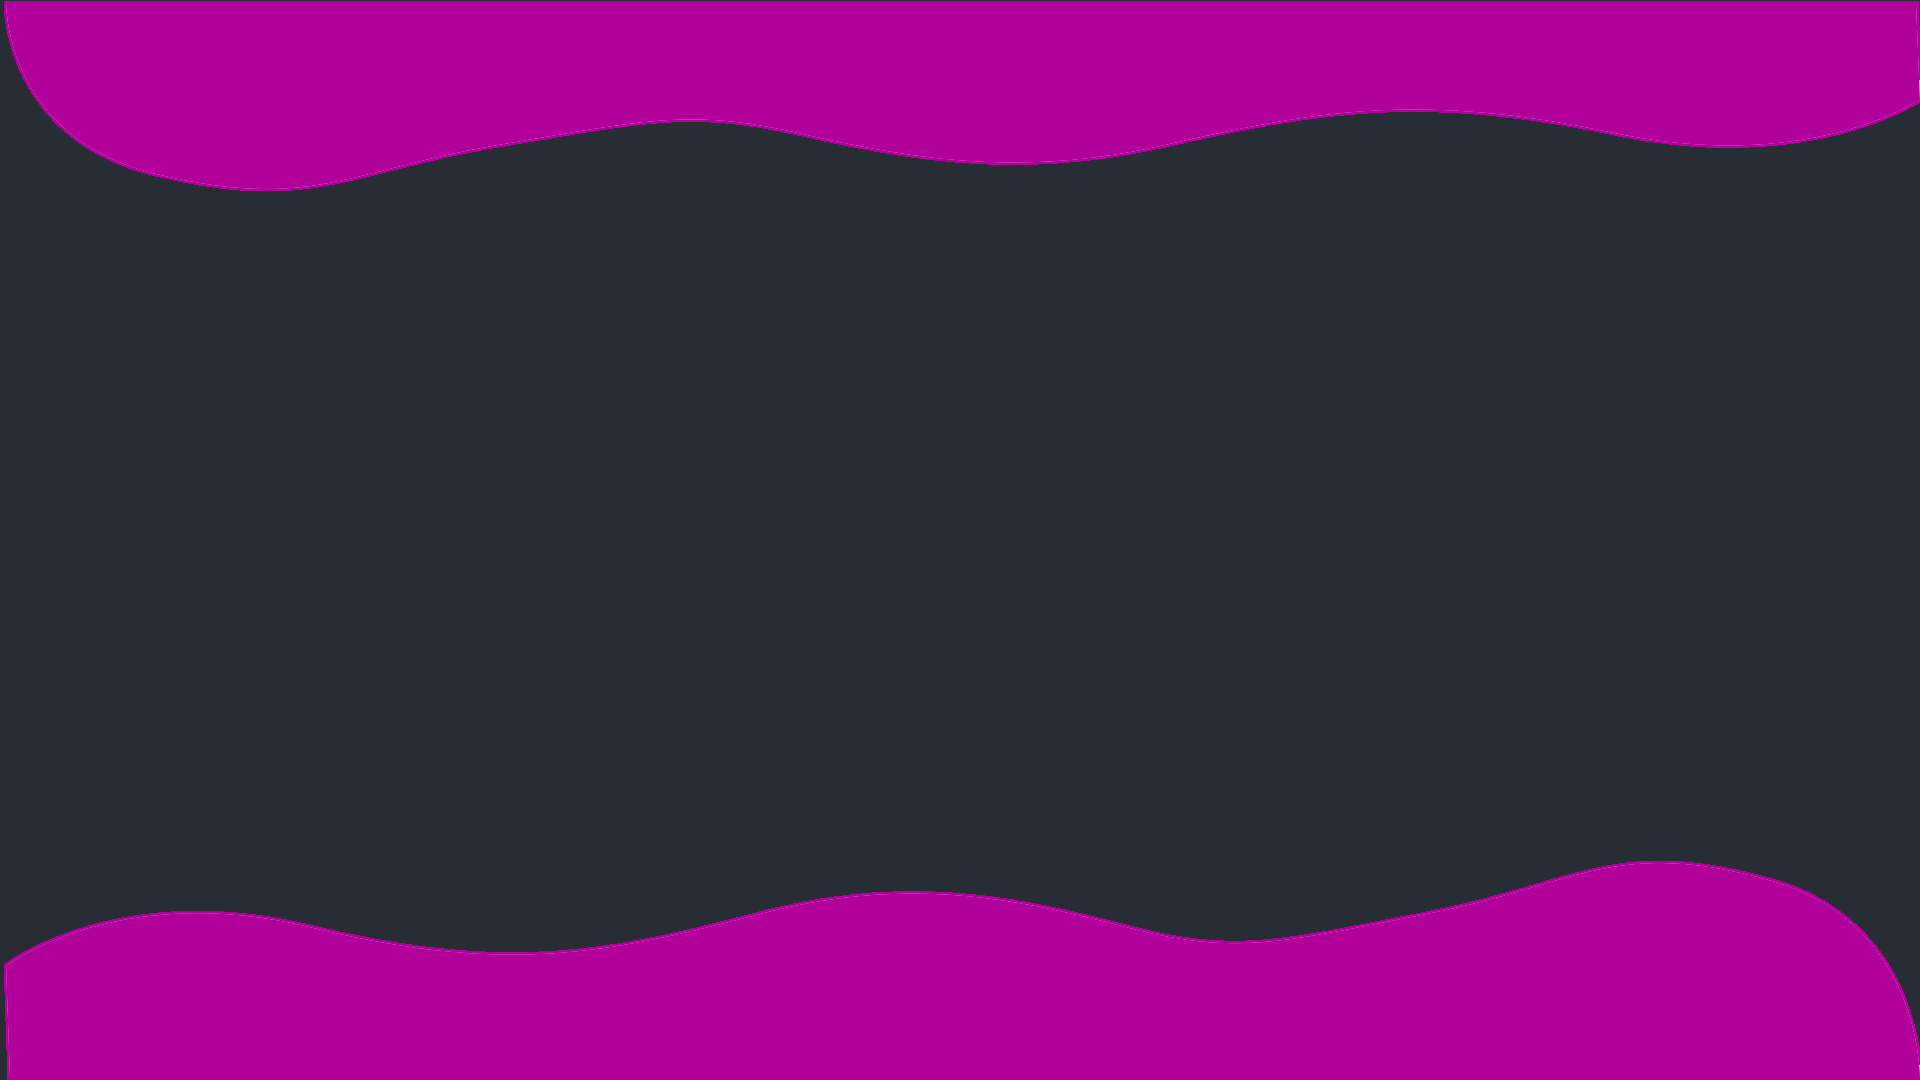
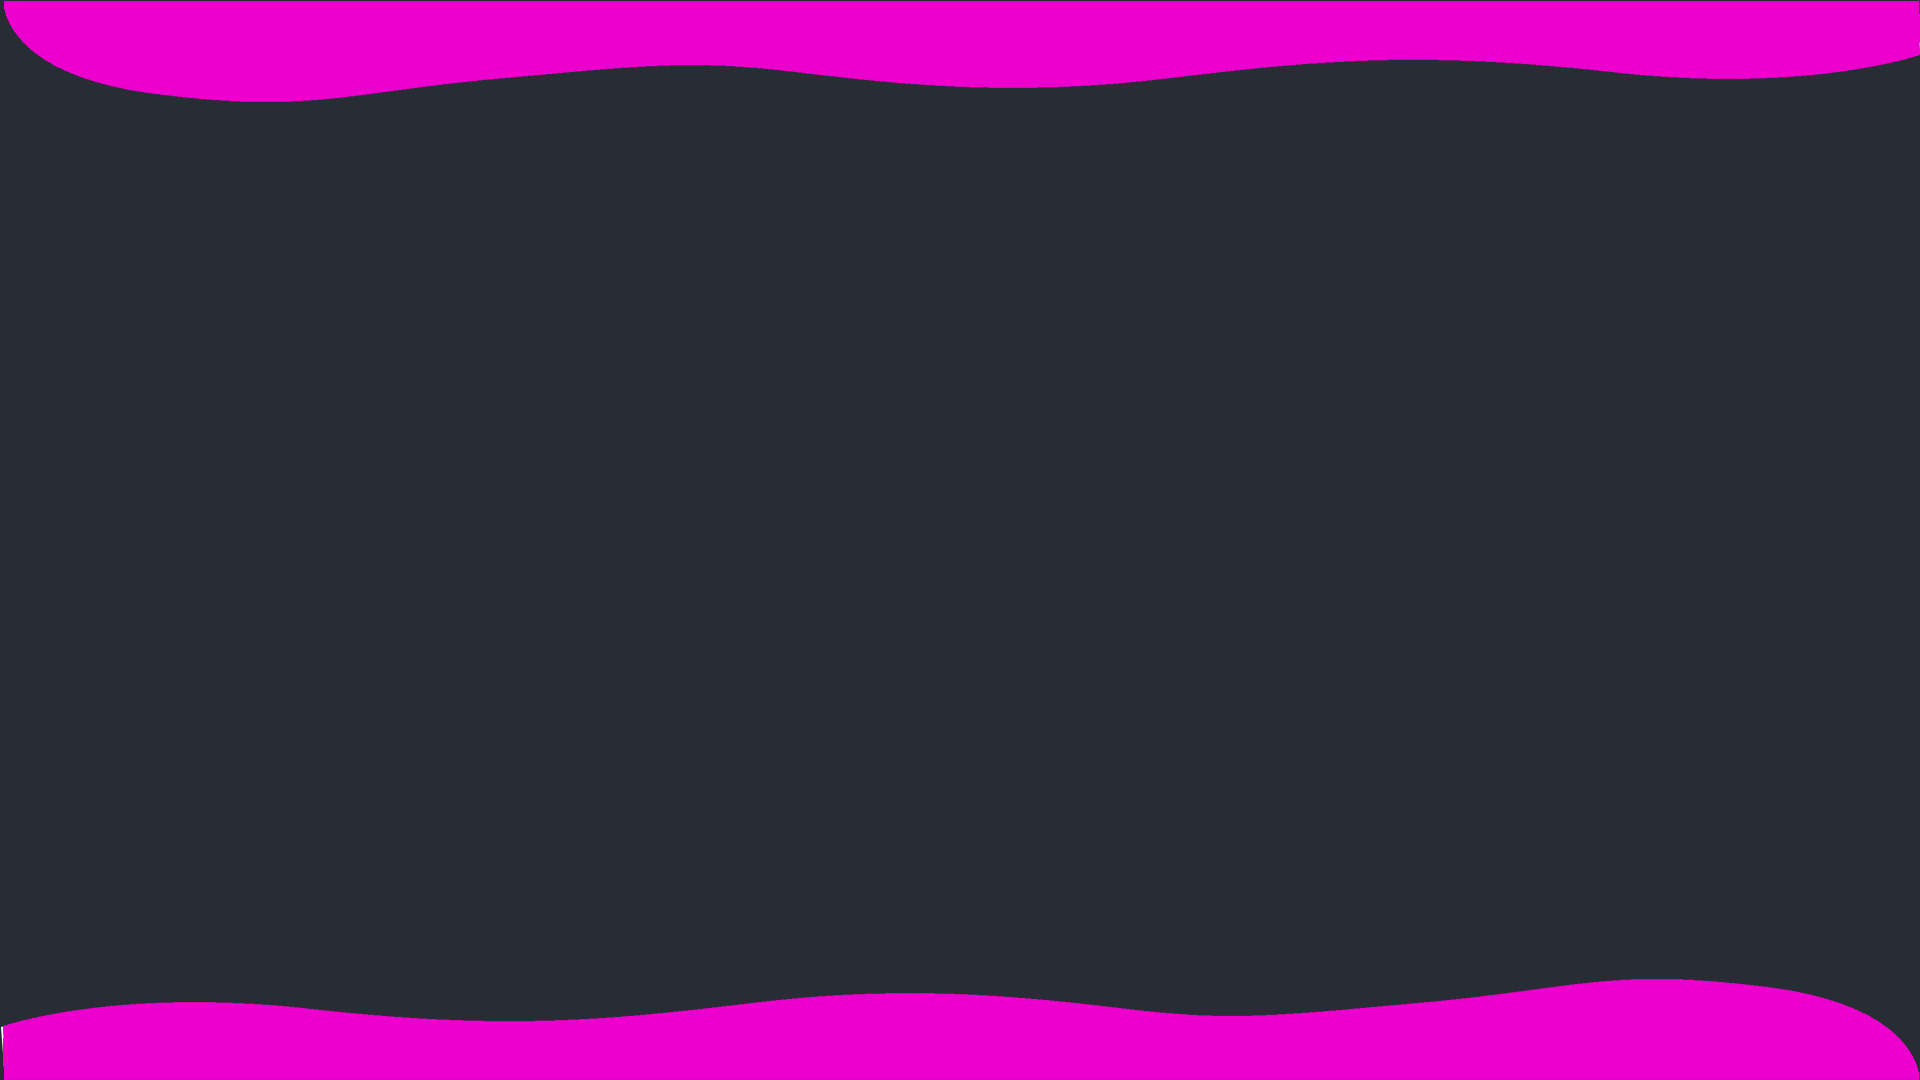
Adding navbar and changing the theme

Changed region(s): [[0.0, 0.7944, 1.0, 1.0], [0.0, 0.0, 1.0, 0.1833]]

diff --git a/src/components/Nav.jsx b/src/components/Nav.jsx
@@ -1,0 +1,99 @@
+import styled from "@emotion/styled";
+import { useRef, useState } from "react";
+import { Link } from "react-router-dom";
+const Container = styled.div`
+    .show{
+        display: block;
+    }
+    .hide{
+        display: none;
+    }
+    nav .link{
+        text-decoration: none;
+        color: white;
+        margin: 0 20px 0 20px;
+    }
+    @media screen and (max-width: 800px){
+        .nav-desktop{
+            display: none;
+        }
+        .nav-mobile-button{
+            display: block;
+            background-color: #282c34;
+            color: white;
+            min-height: 50px;
+            display: flex;
+            align-items: center;
+            justify-content: end;
+        }
+        .nav-mobile{
+            display: none;
+            flex-flow: column;
+            background-color: #282c34;
+            color: white;
+            text-align: end;
+        }
+        .nav-mobile .link{
+            padding: 10px;
+            border-top: 1px solid grey;
+        }
+    }
+    @media screen and (min-width: 800px){
+        .nav-desktop{
+            margin:0;
+            padding: 0;
+            background-color: #282c34 ;
+            color: white;
+            min-height: 3em;
+            left:0;
+            right: 0;
+            display: flex;
+            align-items: center;
+            justify-content: center;
+            font-size: 1em;
+        }
+        .nav-mobile-button{
+            display: none;
+        }
+        .nav-mobile{
+            display: none;
+        }
+    }
+`
+const Nav = () => {
+    const DISPLAYS = {
+        FLEX: "flex",
+        NONE: "none"
+    }
+    const navMobile = useRef(null)
+    const handleDisplayMobileMenu = () => {
+        navMobile.current.style.display = navMobile.current.style.display === DISPLAYS.FLEX ? DISPLAYS.NONE : DISPLAYS.FLEX
+    }
+
+    return (
+        <Container>
+            <nav className="nav-desktop">
+                <Link className="link" to="/">Logo</Link>
+                <Link className="link" to="/">Accueil</Link>
+                <Link className="link" to="/">Service</Link>
+                <Link className="link" to="/">A propos de nous</Link>
+                <Link className="link" to="/">Parametres</Link>
+                <Link className="link" to="/">Mon compte</Link>
+                <Link className="link" to="/authentification">Authentification</Link>
+            </nav>
+            <nav className="nav-mobile-button">
+                <i onClick={handleDisplayMobileMenu} style={{ marginRight: "20px" }} className="fa-solid fa-bars-staggered"></i>
+            </nav>
+            <nav ref={navMobile} className={`nav-mobile`}>
+                <Link className="link" to="/">Accueil</Link>
+                <Link className="link" to="/">Service</Link>
+                <Link className="link" to="/">A propos de nous</Link>
+                <Link className="link" to="/">Parametres</Link>
+                <Link className="link" to="/">Mon compte</Link>
+                <Link className="link" to="/authentification">Authentification</Link>
+            </nav>
+        </Container>
+    );
+}
+
+export default Nav;

diff --git a/src/pages/Authentification.jsx b/src/pages/Authentification.jsx
@@ -1,12 +1,22 @@
 import styled from "@emotion/styled"
 import Inscription from "../components/Inscription";
 import Login from "../components/Login";
-import {useEffect} from "react"
-
+import { useEffect } from "react"
+import bg from "../assets/images/bg.png"
+import Nav from "../components/Nav";
 const Container = styled.div`
     #authentification{
-        padding: 10px;
+        margin: 30px;
+        padding: 20px;
         min-height: 100vh;
+        color: #282c34;
+        background-color: #e5e5e5;
+        border-radius: 10px;
+        // background-image: url(${bg});
+        // background-position: center;
+        // background-size: cover;
+        // background-repeat: no-repeat;
+        // font-size: .8em;
     }
     #auths{
         display: flex;
@@ -23,7 +33,7 @@ const Container = styled.div`
             padding: 10px;
         }
     }
-    @media screen and (min-width: 450px){
+    @media screen and (min-width: 800px){
         #auths{
             display: grid;
             grid-template-columns: 50% auto;
@@ -39,11 +49,12 @@ const Container = styled.div`
     }
 `
 const Authentification = () => {
-    useEffect(()=>{
+    useEffect(() => {
         document.title = "Authentification"
-    },[])
+    }, [])
     return (
         <Container>
+            <Nav />
             <div id="authentification">
                 <div className="za-mandresy">
                     <h1>Za mandresy</h1>

diff --git a/src/pages/Home.jsx b/src/pages/Home.jsx
@@ -1,20 +1,22 @@
-import Iframe from "react-iframe";
-const Home = () => {
-    // let link = "https://www.youtube.com/watch?v=BVmJXTQE0Ss";
-    let link = "https://fb.watch/d-Z3gTKz6H%2Fvideos%2F447142007208593";
-    let src = "";
-    if (link.includes("fb")) {
-        src = "https://www.facebook.com/plugins/video.php?href=" + link;
-    } else if (link.includes("youtube")) {
-        src = link.replace("watch?v=", "embed/");
-    } else {
-        src = "node_upload_video_link";
+import styled from "@emotion/styled"
+import bg from "../assets/images/bg.png"
+import Nav from '../components/Nav'
+const Container = styled.div`
+    #home{
+        padding: 10px;
+        min-height: 100vh;
+        background-color: white;
     }
+`
+const Home = () => {
     return (
         <>
-            <header className="App-header">
-                <Iframe url={src} width="450px" height="300px" allow="fullscreen" />
-            </header>
+            <Container>
+                <Nav />
+                <div id="home">
+                    <h1>Home page</h1>
+                </div>
+            </Container>
         </>
     );
 }

diff --git a/src/pages/Test.jsx b/src/pages/Test.jsx
@@ -1,0 +1,22 @@
+import Iframe from "react-iframe";
+const Test = () => {
+    // let link = "https://www.youtube.com/watch?v=BVmJXTQE0Ss";
+    let link = "https://fb.watch/d-Z3gTKz6H%2Fvideos%2F447142007208593";
+    let src = "";
+    if (link.includes("fb")) {
+        src = "https://www.facebook.com/plugins/video.php?href=" + link;
+    } else if (link.includes("youtube")) {
+        src = link.replace("watch?v=", "embed/");
+    } else {
+        src = "node_upload_video_link";
+    }
+    return (
+        <>
+            <header className="App-header">
+                <Iframe url={src} width="450px" height="300px" allow="fullscreen" />
+            </header>
+        </>
+    );
+}
+
+export default Test;

diff --git a/src/components/Inscription.jsx b/src/components/Inscription.jsx
@@ -13,7 +13,7 @@ import {
 
 const Container = styled.div`
   .inscription {
-    font-size: 1.5em;
+    font-size: 1em;
     text-align: start;
   }
   h1 {
@@ -58,13 +58,13 @@ const Inscription = () => {
     setConfirmPassword(e.target.value);
   };
   const handleInscription = async () => {
-    await addDoc(collection(db, "utilisateurs"), {
-      nom: nom,
-      prenom: prenom,
-      age: Number(age),
-      email: email,
-      password: password,
-    });
+    // await addDoc(collection(db, "utilisateurs"), {
+    //   nom: nom,
+    //   prenom: prenom,
+    //   age: Number(age),
+    //   email: email,
+    //   password: password,
+    // });
   };
 
   return (

diff --git a/src/App.css b/src/App.css
@@ -1,15 +1,11 @@
-@import url('https://fonts.googleapis.com/css2?family=Caveat+Brush&display=swap');
+@import url('https://fonts.googleapis.com/css2?family=Hind+Siliguri:wght@300;400;600&display=swap');
 .App {
   text-align: center;
-  font-family: 'Caveat Brush', cursive;
+  font-family: 'Hind Siliguri', sans-serif;
   /* background-color: #282c34; */
   /* color: white; */
   /* border: 5px pink solid; */
-  background-image: url('./assets/images/bg.png');
-  background-position: center;
-  background-size: cover;
-  color: white;
-  background-repeat: no-repeat;
+  /* background-image: url('./assets/images/bg.png'); */
 }
 
 .App-logo {

diff --git a/public/index.html b/public/index.html
@@ -10,6 +10,7 @@
       content="Web site created using create-react-app"
     />
     <link rel="apple-touch-icon" href="%PUBLIC_URL%/logo192.png" />
+    <link rel="stylesheet" href="https://cdnjs.cloudflare.com/ajax/libs/font-awesome/6.1.1/css/all.min.css" integrity="sha512-KfkfwYDsLkIlwQp6LFnl8zNdLGxu9YAA1QvwINks4PhcElQSvqcyVLLD9aMhXd13uQjoXtEKNosOWaZqXgel0g==" crossorigin="anonymous" referrerpolicy="no-referrer" />
     <!--
       manifest.json provides metadata used when your web app is installed on a
       user's mobile device or desktop. See https://developers.google.com/web/fundamentals/web-app-manifest/

diff --git a/src/App.js b/src/App.js
@@ -9,14 +9,12 @@ function App() {
       <Router>
         <Routes>
           <Route path="/" element={<Home />}></Route>
-          <Route
-            path="/authentification"
-            element={<Authentification />}
-          ></Route>
+          <Route path="/authentification" element={<Authentification />} />
+          {/* <Route path="/apropos" element={<Authentification />} /> */}
         </Routes>
       </Router>
     </div>
   );
 }
-
+// color : #ed00ce #282c34
 export default App;

diff --git a/src/components/Login.jsx b/src/components/Login.jsx
@@ -2,7 +2,7 @@ import styled from "@emotion/styled"
 import {useState} from "react"
 const Container = styled.div`
     .login{
-        font-size: 1.5em;
+        font-size: 1em;
         text-align:start;
     }
     h1{
